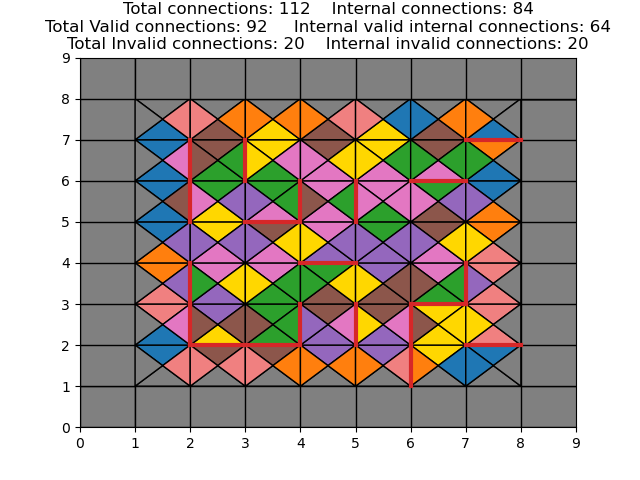
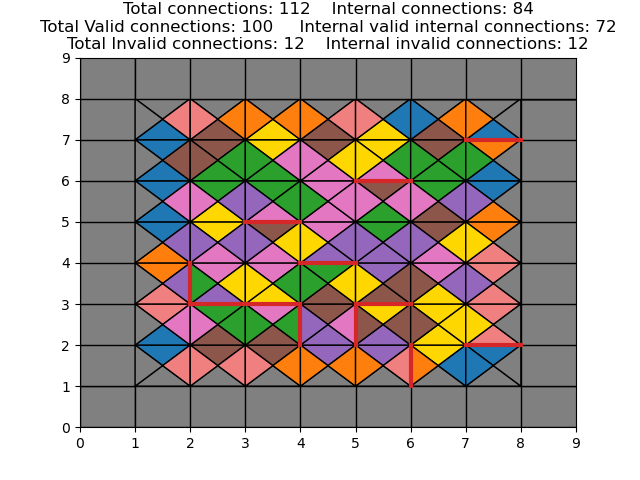
correction finales (a priori...)

diff --git a/projet-etudiants/code/solver_advanced_tabu.py b/projet-etudiants/code/solver_advanced_tabu.py
@@ -1,6 +1,7 @@
 import numpy as np
 import time
 import solver_heuristic_greedy as shg
+#content = np.loadtxt("sample.txt")
 
 def solve_advanced(eternity_puzzle):
     #TODO : Ajouter listing pour tracé de courbe
@@ -13,20 +14,21 @@ def solve_advanced(eternity_puzzle):
     """
     start_time = time.time()
 
-    max_duration = 10  # Temps alloué -> 3600
-    max_iter_border = 2 # -> 400
-    patience_for_SA = 2 # -> 400
-    patience_for_ILS = 2  # Un peu abusé je crois 1000/1500 plutôt
+    n = eternity_puzzle.board_size
+
+    max_duration = 3600  # Temps alloué -> 3600
+    max_iter_border = int(400 * 16/n) # -> 400
+    patience_for_SA = int(400 * 16/n) # -> 400
+    patience_for_ILS = int(3000 * 16/n)  # Un peu abusé je crois 1000/1500 plutôt
     t0 = 100
     cooling = 0.99
     perturbation_ratio = 0.5
 
     pieces = transform(eternity_puzzle)
-    n = eternity_puzzle.board_size
     corners, edges, interiors = split(pieces)
     tabu_length = int(1.5 * n * n /4)
 
-    solution, score = init_greedy(1, n, corners, edges, interiors) # -> 100
+    solution, score = init_greedy(100, n, corners, edges, interiors) # -> 100
     print("Init finie, score de départ : ", score)
     best_sol = solution.copy()
     best_score = score
@@ -35,9 +37,9 @@ def solve_advanced(eternity_puzzle):
     inside_iter_tabu = 0
     inside_iter_SA = 0
     ILS_iter = 0
-    best_score_mem = []
-    best_score_timestamp = []
-    best_score_at_restart = []
+    best_score_mem = [best_score]
+    best_score_timestamp = [0]
+    best_score_at_restart = [best_score]
     while time.time() < max_duration + start_time and best_score > 0:
         ILS_iter += 1
         solution, nb_iter = solve_border(solution, max_iter_border, max_duration, start_time, tabu_length)
@@ -47,58 +49,65 @@ def solve_advanced(eternity_puzzle):
             temp_best_score = score
 
         if score < best_score:
+            best_score_mem.append(score)
+            best_score_timestamp.append(round((time.time() - start_time),2))
             best_sol = solution.copy()
             best_score = score
 
         if time.time() > max_duration + start_time or best_score == 0:
             break
 
-        delta_matrix = create_delta_matrix(solution)
-
         not_stagnating = True
         while not_stagnating:
-            solution, score, nb_iter = solve_inside(solution, tabu_length, temp_best_score, delta_matrix, patience_for_SA, max_duration, start_time)
-            eval = evaluation(solution) #TODO delete
-            assert score == eval, "Score après tabu ne correspond pas à la réalité :" + str(score) + " != " + str(eval) #TODO delete
+            solution, score, nb_iter = solve_inside(solution, tabu_length, temp_best_score, patience_for_SA, max_duration, start_time)
             inside_iter_tabu += nb_iter
             if score < temp_best_score:
                 temp_best_score = score
 
             if score < best_score:
+                best_score_mem.append(score)
+                best_score_timestamp.append(round((time.time() - start_time), 2))
                 best_sol = solution.copy()
                 best_score = score
 
-            if time.time() < max_duration + start_time or best_score == 0:
+            if time.time() > max_duration + start_time or best_score == 0:
                 print("Nb of border iter : ", border_iter)
                 print("Nb of tabu iter : ", inside_iter_tabu)
                 print("Nb of SA iter : ", inside_iter_SA)
                 print("Nb of ILS iter : ", ILS_iter)
                 solution_final = retransform(best_sol)
+                np.savetxt("scores_at_restart.txt", np.array(best_score_at_restart), delimiter=", ")
+                np.savetxt("best_score_mem.txt", np.array(best_score_mem), delimiter=", ")
+                np.savetxt("best_score_time.txt", np.array(best_score_timestamp), delimiter=", ")
                 return solution_final, best_score
 
-            solution, score, improvement, nb_iter = simulated_annealing(solution, t0, cooling, delta_matrix, patience_for_ILS, max_duration, start_time)
-            eval = evaluation(solution) #TODO delete
-            assert score == eval, "Score après SA ne correspond pas à la réalité :" + str(score) + " != " + str(eval) #TODO delete
+            solution, score, improvement, nb_iter = simulated_annealing(solution, t0, cooling, patience_for_ILS, max_duration, start_time)
             inside_iter_SA += nb_iter
             if improvement:
                 if score < temp_best_score:
                     temp_best_score = score
 
                 if score < best_score:
+                    best_score_mem.append(score)
+                    best_score_timestamp.append(round((time.time() - start_time), 2))
                     best_sol = solution.copy()
                     best_score = score
             else:
                 not_stagnating = False
 
-            if time.time() < max_duration + start_time or best_score == 0:
+            if time.time() > max_duration + start_time or best_score == 0:
                 print("Nb of border iter : ", border_iter)
                 print("Nb of tabu iter : ", inside_iter_tabu)
                 print("Nb of SA iter : ", inside_iter_SA)
                 print("Nb of ILS iter : ", ILS_iter)
                 solution_final = retransform(best_sol)
+                np.savetxt("scores_at_restart.txt", np.array(best_score_at_restart), delimiter=", ")
+                np.savetxt("best_score_mem.txt", np.array(best_score_mem), delimiter=", ")
+                np.savetxt("best_score_time.txt", np.array(best_score_timestamp), delimiter=", ")
                 return solution_final, best_score
 
         solution = perturbation(solution, perturbation_ratio)
+        best_score_at_restart.append(temp_best_score)
         temp_best_score = 1000
 
     print("Nb of border iter : ", border_iter)
@@ -106,6 +115,9 @@ def solve_advanced(eternity_puzzle):
     print("Nb of SA iter : ", inside_iter_SA)
     print("Nb of ILS iter : ", ILS_iter)
     solution_final = retransform(best_sol)
+    np.savetxt("scores_at_restart.txt", np.array(best_score_at_restart), delimiter=", ")
+    np.savetxt("best_score_mem.txt", np.array(best_score_mem), delimiter=", ")
+    np.savetxt("best_score_time.txt", np.array(best_score_timestamp), delimiter=", ")
     return solution_final, best_score
 
 
@@ -631,7 +643,7 @@ def eval_delta_corners(solution, p1, p2):
 ########################################################################################################################
 
 
-def solve_inside(solution, tabu_length, temp_best_score, delta_matrix, patience_for_SA, max_duration, start_time):
+def solve_inside(solution, tabu_length, temp_best_score, patience_for_SA, max_duration, start_time):
     n = len(solution)
     n_pieces = (n - 2) ** 2
 
@@ -641,6 +653,8 @@ def solve_inside(solution, tabu_length, temp_best_score, delta_matrix, patience_
     nb_iter = 0
 
     tabu_dict = dict()
+
+    delta_matrix = create_delta_matrix(solution)
 
     stagnating = 0
     while stagnating < patience_for_SA and time.time() < max_duration + start_time and best_score > 0:
@@ -679,7 +693,9 @@ def solve_inside(solution, tabu_length, temp_best_score, delta_matrix, patience_
         solution[p2_i, p2_j, :] = piece1
         solution[p1_i, p1_j, :] = piece2
 
-        score += delta_matrix[p1, p2, roll1, roll2]
+        delta = delta_matrix[p1, p2, roll1, roll2]
+        score += delta
+
         if score < temp_best_score:
             temp_best_score = score
         if score < best_score:
@@ -725,7 +741,6 @@ def solve_inside(solution, tabu_length, temp_best_score, delta_matrix, patience_
 
 def eval_delta_inside(solution, p1, p2, roll1, roll2):
     n = len(solution)
-    n_pieces = (n-2)**2
     p1_i = (p1 // (n-2)) + 1
     p1_j = (p1 % (n-2)) + 1
     p2_i = (p2 // (n-2)) + 1
@@ -734,22 +749,29 @@ def eval_delta_inside(solution, p1, p2, roll1, roll2):
     piece1_new = np.roll(piece1_old, roll1)
     piece2_old = solution[p2_i, p2_j, :]
     piece2_new = np.roll(piece2_old, roll2)
-    if p2 == p1-1:
+    if p2_i == p1_i and p2_j == p1_j - 1:
         surrounding1_old = np.array([solution[p1_i-1, p1_j, 2], solution[p1_i, p1_j+1, 3], solution[p1_i+1, p1_j, 0], solution[p1_i, p1_j-1, 1]], dtype=int)
         surrounding2_old = np.array([solution[p2_i - 1, p2_j, 2], solution[p2_i, p2_j + 1, 3], solution[p2_i + 1, p2_j, 0],solution[p2_i, p2_j - 1, 1]], dtype=int)
         surrounding1_new = np.array([solution[p1_i - 1, p1_j, 2], solution[p1_i, p1_j + 1, 3], solution[p1_i + 1, p1_j, 0],piece1_new[1]], dtype=int)
         surrounding2_new = np.array([solution[p2_i - 1, p2_j, 2], piece2_new[3], solution[p2_i + 1, p2_j, 0],solution[p2_i, p2_j - 1, 1]], dtype=int)
-        return ((surrounding2_new != piece1_new).sum() + (surrounding1_new != piece2_new).sum()) - ((surrounding1_old != piece1_old).sum() + (surrounding2_old != piece2_old).sum())
-    elif p1 + n - 2 == p2:
+        old = (surrounding1_old != piece1_old).sum() + (surrounding2_old != piece2_old).sum() - (piece1_old[3] != piece2_old[1]).sum()
+        new = (surrounding2_new != piece1_new).sum() + (surrounding1_new != piece2_new).sum() - (piece1_new[1] != piece2_new[3]).sum()
+        return new - old
+    elif p1 - n + 2 == p2:
         surrounding1_old = np.array([solution[p1_i - 1, p1_j, 2], solution[p1_i, p1_j + 1, 3], solution[p1_i + 1, p1_j, 0], solution[p1_i, p1_j - 1, 1]], dtype=int)
         surrounding2_old = np.array([solution[p2_i - 1, p2_j, 2], solution[p2_i, p2_j + 1, 3], solution[p2_i + 1, p2_j, 0], solution[p2_i, p2_j - 1, 1]], dtype=int)
         surrounding1_new = np.array([piece1_new[2], solution[p1_i, p1_j + 1, 3], solution[p1_i + 1, p1_j, 0], solution[p1_i, p1_j - 1, 1]], dtype=int)
         surrounding2_new = np.array([solution[p2_i - 1, p2_j, 2], solution[p2_i, p2_j + 1, 3], piece2_new[0], solution[p2_i, p2_j - 1, 1]], dtype=int)
-        return ((surrounding2_new != piece1_new).sum() + (surrounding1_new != piece2_new).sum()) - ((surrounding1_old != piece1_old).sum() + (surrounding2_old != piece2_old).sum())
+        old = (surrounding1_old != piece1_old).sum() + (surrounding2_old != piece2_old).sum() - (piece1_old[0] != piece2_old[2]).sum()
+        new = (surrounding2_new != piece1_new).sum() + (surrounding1_new != piece2_new).sum() - (piece1_new[2] != piece2_new[0]).sum()
+        return new - old
     else:
-        surrounding1 = np.array([solution[p1_i - 1, p1_j, 2], solution[p1_i, p1_j + 1, 3], solution[p1_i + 1, p1_j, 0],solution[p1_i, p1_j - 1, 1]], dtype=int)
-        surrounding2 = np.array([solution[p2_i - 1, p2_j, 2], solution[p2_i, p2_j + 1, 3], solution[p2_i + 1, p2_j, 0],solution[p2_i, p2_j - 1, 1]], dtype=int)
-        return ((surrounding2 != piece1_new).sum() + (surrounding1 != piece2_new).sum()) - ((surrounding1 != piece1_old).sum() + (surrounding2 != piece2_old).sum())
+        surrounding1 = np.array([solution[p1_i - 1, p1_j, 2], solution[p1_i, p1_j + 1, 3], solution[p1_i + 1, p1_j, 0], solution[p1_i, p1_j - 1, 1]], dtype=int)
+        surrounding2 = np.array([solution[p2_i - 1, p2_j, 2], solution[p2_i, p2_j + 1, 3], solution[p2_i + 1, p2_j, 0], solution[p2_i, p2_j - 1, 1]], dtype=int)
+
+        new = (surrounding2 != piece1_new).sum() + (surrounding1 != piece2_new).sum()
+        old = (surrounding1 != piece1_old).sum() + (surrounding2 != piece2_old).sum()
+        return new - old
 
 
 def create_delta_matrix(solution):
@@ -764,13 +786,16 @@ def create_delta_matrix(solution):
     return delta_matrix
 
 
-def simulated_annealing(solution, t0, cooling, delta_matrix, patience_for_ILS, max_duration, start_time):
+def simulated_annealing(solution, t0, cooling, patience_for_ILS, max_duration, start_time):
     n = len(solution)
     n_pieces = (n-2)**2
     temperature = t0
     nb_iter = 0
     stagnating = 0
     score = evaluation(solution)
+
+    delta_matrix = create_delta_matrix(solution)
+
     while stagnating < patience_for_ILS and time.time() < max_duration + start_time:
         nb_iter += 1
 
@@ -837,7 +862,7 @@ def perturbation(solution, perturbation_ratio):
     n = len(solution)
     n_pieces = n**2
     nb_of_swap = int(n_pieces * perturbation_ratio)
-    corners = [(0, 0), (0, n - 1), (n - 1, 0), (n - 1, n - 1)]
+    corners = [(0, 0), (0, n - 1), (n - 1, n - 1), (n - 1, 0)]
     edges = [(0,k) for k in range(1,n-1)] + [(k,n-1) for k in range(1,n-1)] + [(n-1,k) for k in range(n-2,0,-1)] + [(k,0) for k in range(n-2,0,-1)]
     for i in range(nb_of_swap):
         type_of_piece = np.random.rand()

diff --git a/projet-etudiants/code/solver_advanced.py b/projet-etudiants/code/solver_advanced.py
@@ -15,5 +15,5 @@ def solve_advanced(eternity_puzzle):
     # TODO : Threading
     # TODO : Tracé des courbes et enregistrement dans des fichiers de visu
     # TODO : Moyenne sur plusieurs runs
-
+    np.savetxt("test.txt", np.array([1,2,3]), delimiter=", ")
     return sat.solve_advanced(eternity_puzzle)
